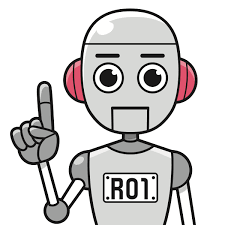
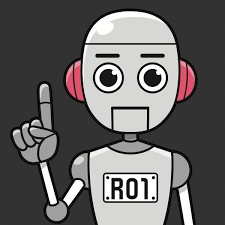
Remove bg of image and put on new line

diff --git a/index.html b/index.html
@@ -25,11 +25,11 @@
     <a href="start">
         <button class="btn btn-primary btn-lg">Start the quiz!</button>
     </a>
+    <br>
     <img src="robot1.png">
     <div style="bottom: 25px !important; height: 20px !important; position: fixed !important; font-size: 25px;" class="credits">
         Created by <a href="https://codeyoursite.github.io">Code Your Site</a>
     </div>
     <script src="https://cdn.jsdelivr.net/npm/bootstrap@5.3.3/dist/js/bootstrap.bundle.min.js" integrity="sha384-YvpcrYf0tY3lHB60NNkmXc5s9fDVZLESaAA55NDzOxhy9GkcIdslK1eN7N6jIeHz" crossorigin="anonymous"></script>
 </body>
-
 </html>
